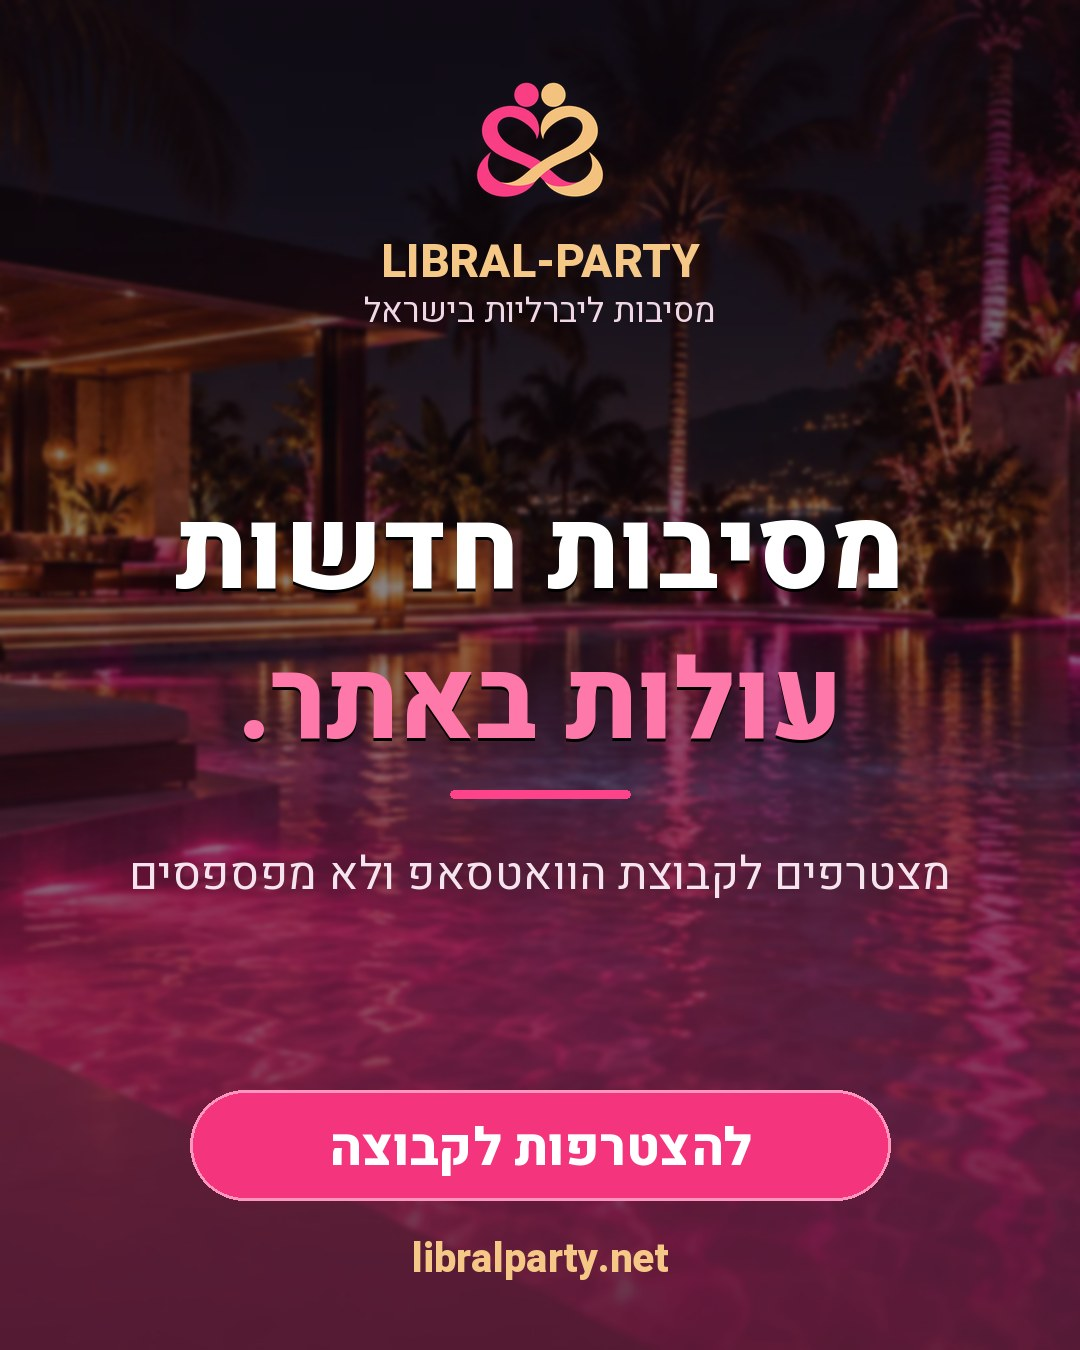
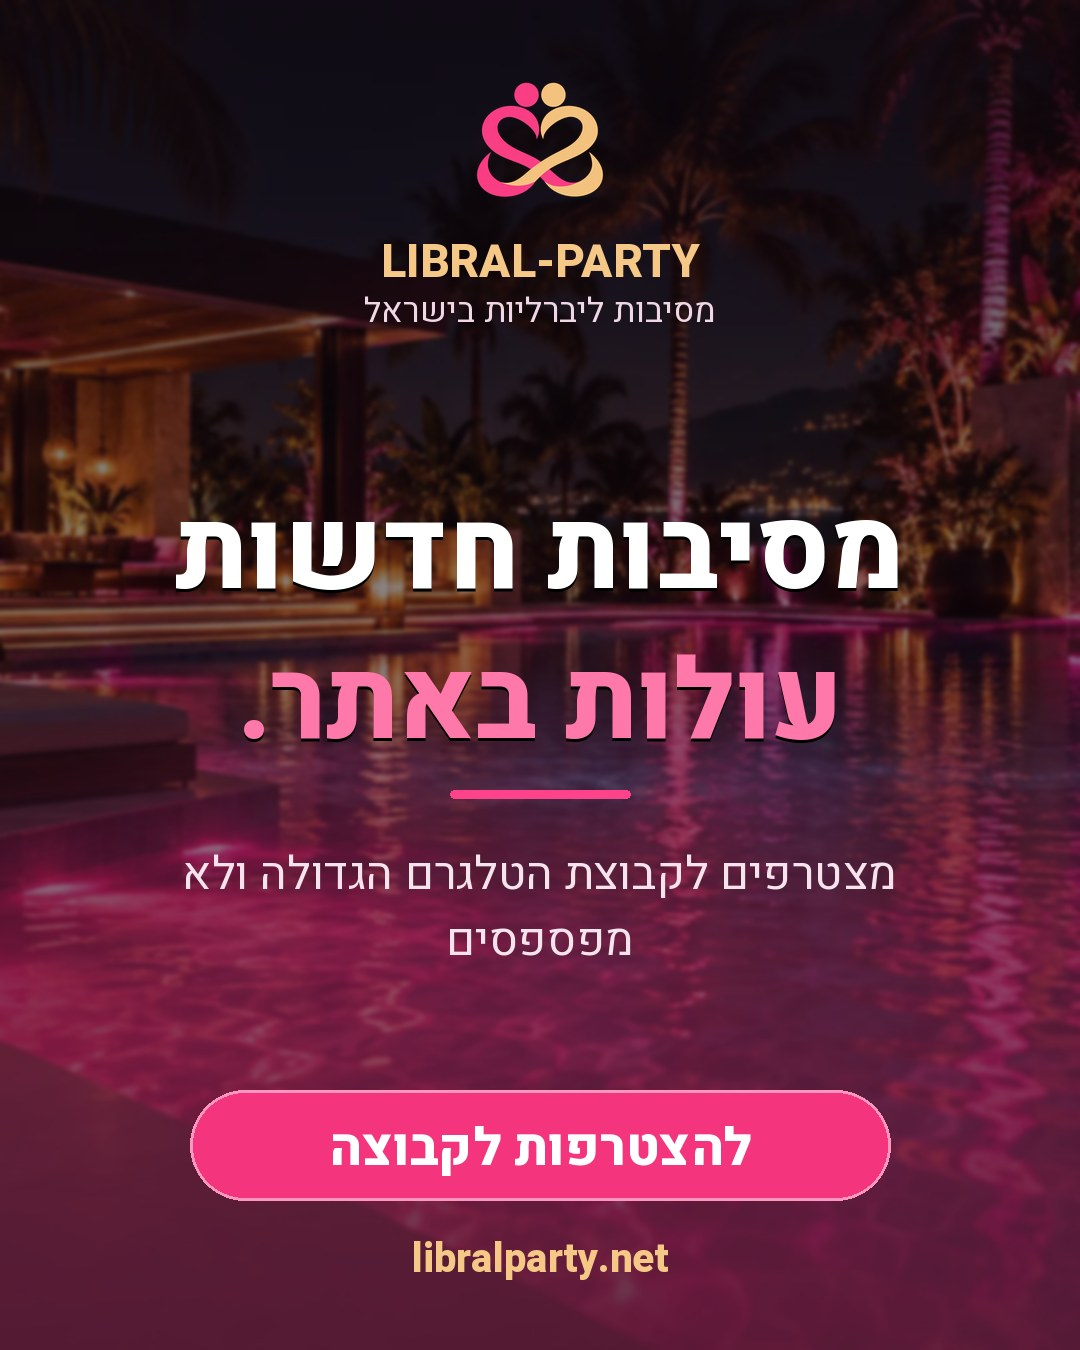
Campaign about the group: Telegram instead of WhatsApp
Claude-Session: https://claude.ai/code/session_01MnETpxBKVPfyu1WyzPnxXv

Changed region(s): [[0.3972, 0.6222, 0.8861, 0.6844], [0.1222, 0.6222, 0.3667, 0.6533], [0.3972, 0.6844, 0.5806, 0.7156]]

diff --git a/shared/telegramCampaigns.js b/shared/telegramCampaigns.js
@@ -54,7 +54,7 @@ export const TELEGRAM_CAMPAIGNS = [
   {
     "id": "c11",
     "image": "https://www.libralparty.net/assets/campaigns/c11.jpg",
-    "caption": "📲 מסיבות חדשות עולות באתר!\nמצטרפים לקבוצת הוואטסאפ ולא מפספסים אף מסיבה.\n\n👇 להצטרפות לקבוצה:\nhttps://chat.whatsapp.com/LHo4Spoy73b38mDI5XEcF7"
+    "caption": "📲 מסיבות חדשות עולות באתר!\nמצטרפים לקבוצת הטלגרם הגדולה ולא מפספסים אף מסיבה.\n\n👇 להצטרפות לקבוצה:\nhttps://t.me/libralparty"
   },
   {
     "id": "c12",

diff --git a/scripts/campaigns/make_campaigns.py b/scripts/campaigns/make_campaigns.py
@@ -48,8 +48,8 @@ CAMPAIGNS = [
      "✨ ערב בלתי נשכח מחכה במועדון של אבי סווינגרס!\nכל המסיבות הקרובות באתר.\n\n👇 למסיבות:"),
     ("s5", "suite", ["חדר רחצה", "שלא ראיתם."], "ענק ושקוף, במרכז הסוויטה", "לפרטים ולהזמנה", "/liberal-suite",
      "💦 חדר רחצה מרהיב, ענק ושקוף, במרכז הסוויטה הליברלית!\n\n👇 לפרטים ולהזמנה:"),
-    ("k5", "pool", ["מסיבות חדשות", "עולות באתר."], "מצטרפים לקבוצת הוואטסאפ ולא מפספסים", "להצטרפות לקבוצה", "https://chat.whatsapp.com/LHo4Spoy73b38mDI5XEcF7",
-     "📲 מסיבות חדשות עולות באתר!\nמצטרפים לקבוצת הוואטסאפ ולא מפספסים אף מסיבה.\n\n👇 להצטרפות לקבוצה:"),
+    ("k5", "pool", ["מסיבות חדשות", "עולות באתר."], "מצטרפים לקבוצת הטלגרם הגדולה ולא מפספסים", "להצטרפות לקבוצה", "https://t.me/libralparty",
+     "📲 מסיבות חדשות עולות באתר!\nמצטרפים לקבוצת הטלגרם הגדולה ולא מפספסים אף מסיבה.\n\n👇 להצטרפות לקבוצה:"),
     ("s6", "suitesofa", ["יש לכם ליין", "קבוע?"], "דברו עם אבי לתנאים מותאמים אישית", "לפרטים", "/liberal-suite",
      "🔁 ליין קבוע בסוויטה?\nדברו עם אבי לתנאים מותאמים אישית.\n\n👇 לפרטים:"),
 ]
